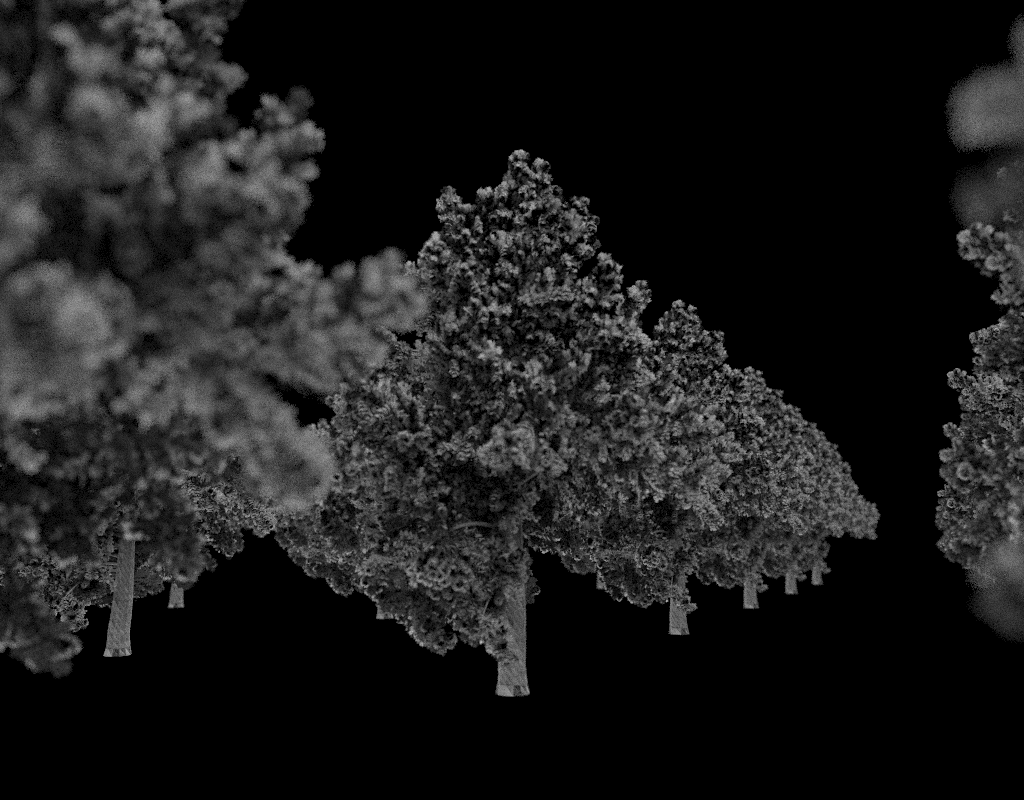
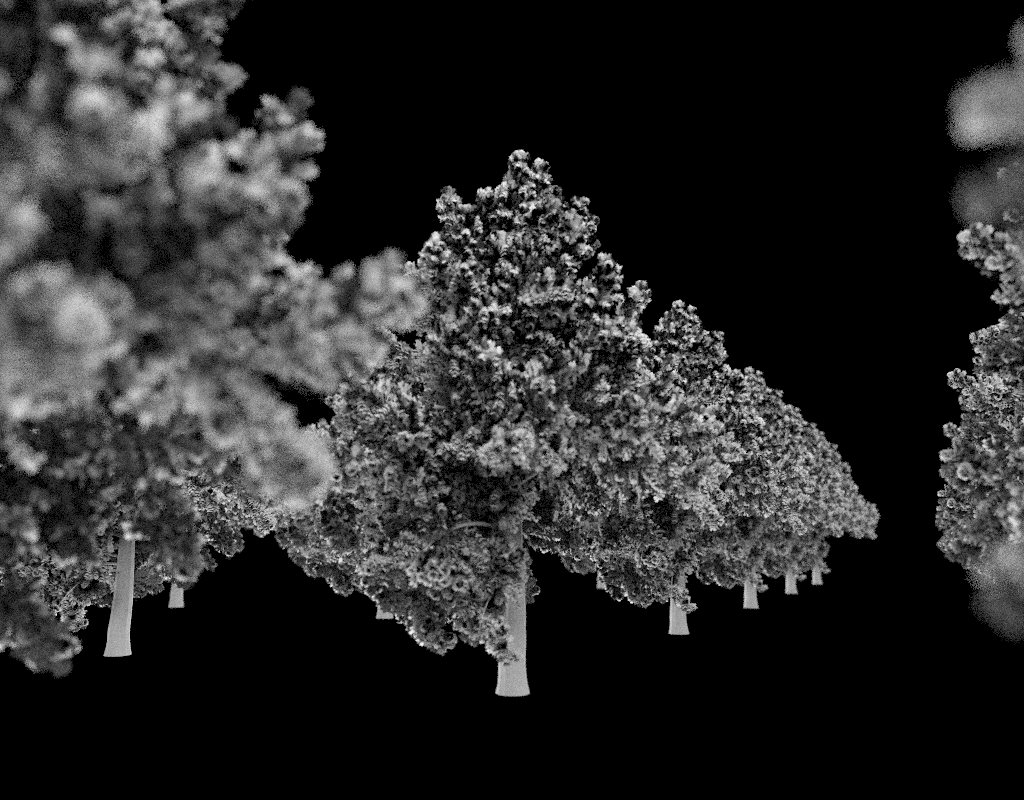
Fixed self intersection for triangles

Changed region(s): [[0.0, 0.0, 0.875, 0.875], [0.9062, 0.0312, 1.0, 0.8125]]

diff --git a/src/render/renderer.cpp b/src/render/renderer.cpp
@@ -189,20 +189,19 @@ inline Vec3r Renderer::get_radiance(const Ray& ray)
     m_world->get_surface_interaction(hit, &isect);
     Vec3r n = normalize(isect.normal);
 
-    constexpr int occlusion_quality = 10;
     Vec3r occlusion;
     double occlusion_amount = 1.0;
-    const double occlusion_step = 1.0 / (double)occlusion_quality;
-    for (int i = 0; i < occlusion_quality; ++i)
+    const double occlusion_step = 1.0 / (double)NUM_AO_RAYS;
+    for (int i = 0; i < NUM_AO_RAYS; ++i)
     {
         Vec3r random_dir = normalize(Vec3r(random<Real>(), random<Real>(), random<Real>()));
         if (dot(random_dir, n) < 0)
             random_dir = -random_dir;
         Ray occlusion_ray;
-        occlusion_ray.org = isect.position;
+        occlusion_ray.org = isect.position + random_dir * RAY_EPSILON;
         occlusion_ray.dir = random_dir;
-        occlusion_ray.tmin = 0;
-        occlusion_ray.tmax = 1000;
+        occlusion_ray.tmin = RAY_TMIN;
+        occlusion_ray.tmax = RAY_TFAR;
         HitInfo occlusion_hit;
         if (m_world->intersect_any(occlusion_ray, &occlusion_hit))
             occlusion_amount -= occlusion_step;

diff --git a/src/geometry/intersect_triangle.h b/src/geometry/intersect_triangle.h
@@ -1,5 +1,6 @@
 #pragma once
 
+#include "hop.h"
 #include "math/math.h"
 #include "math/vec3.h"
 #include "geometry/ray.h"
@@ -11,7 +12,8 @@ inline bool intersect_triangle(const Vec3r& v0, const Vec3r& e1, const Vec3r& e2
 {
     const Vec3r s1 = cross(ray.dir, e2);
     const Real det = dot(s1, e1);
-    if (almost_equal(det, Real(0)))
+    //if (almost_equal(det, Real(0)))
+    if (det > -RAY_EPSILON && det < RAY_EPSILON)
         return false;
 
     const Real inv_det = rcp(det);
@@ -19,13 +21,13 @@ inline bool intersect_triangle(const Vec3r& v0, const Vec3r& e1, const Vec3r& e2
     // Compute first barycentric coordinate
     const Vec3r d = ray.org - v0;
     const Real b1 = dot(d, s1) * inv_det;
-    if (b1 < 0.0 || b1 > 1.0)
+    if (b1 < 0.0 - RAY_EPSILON || b1 > 1.0 + RAY_EPSILON)
         return false;
 
     // Compute second barycentric coordinate
     const Vec3r s2 = cross(d, e1);
     const Real b2 = dot(ray.dir, s2) * inv_det;
-    if (b2 < 0.0 || (b1 + b2) > 1.0)
+    if (b2 < 0.0 - RAY_EPSILON || (b1 + b2) > 1.0 + RAY_EPSILON)
         return false;
 
     // Compute distance to intersection point

diff --git a/src/obj.cpp b/src/obj.cpp
@@ -161,7 +161,7 @@ ShapeID load(const char* file)
                     size_t index = indices[j];
                     tri.vertices[j] = vertices[face_vert_idx[index]];
                     if (has_normals)
-                        tri.normals[j] = normals[face_norm_idx[index]];
+                        tri.normals[j] = normalize(normals[face_norm_idx[index]]);
                     if (has_uvs)
                         tri.uvs[j] = uvs[face_uv_idx[index]];
                 }

diff --git a/src/camera/perspective_camera.h b/src/camera/perspective_camera.h
@@ -13,7 +13,7 @@ class PerspectiveCamera : public ProjectiveCamera
 public:
     PerspectiveCamera(const Transformr& cam2world, const Vec2u& film_res,
                       Real fovy = 90.0, Real lens_radius = 0.0, Real focal_distance = 0.0,
-                      Real near = 1e-2, Real far = 1000.0);
+                      Real near = RAY_TMIN, Real far = RAY_TFAR);
 
     Real generate_ray(const CameraSample& sample, Ray* ray) override;
 

diff --git a/src/hop.h b/src/hop.h
@@ -11,6 +11,10 @@
 #define MIN_PRIMS_PER_LEAF 8
 #define NUM_SAH_SPLITS 30
 #define BVH_TRAV_COST 0.25
+#define NUM_AO_RAYS 10
+#define RAY_EPSILON 1e-6
+#define RAY_TMIN 1e-2
+#define RAY_TFAR 1000
 
 #define likely(x)       __builtin_expect(!!(x),1)
 #define unlikely(x)     __builtin_expect(!!(x),0)
